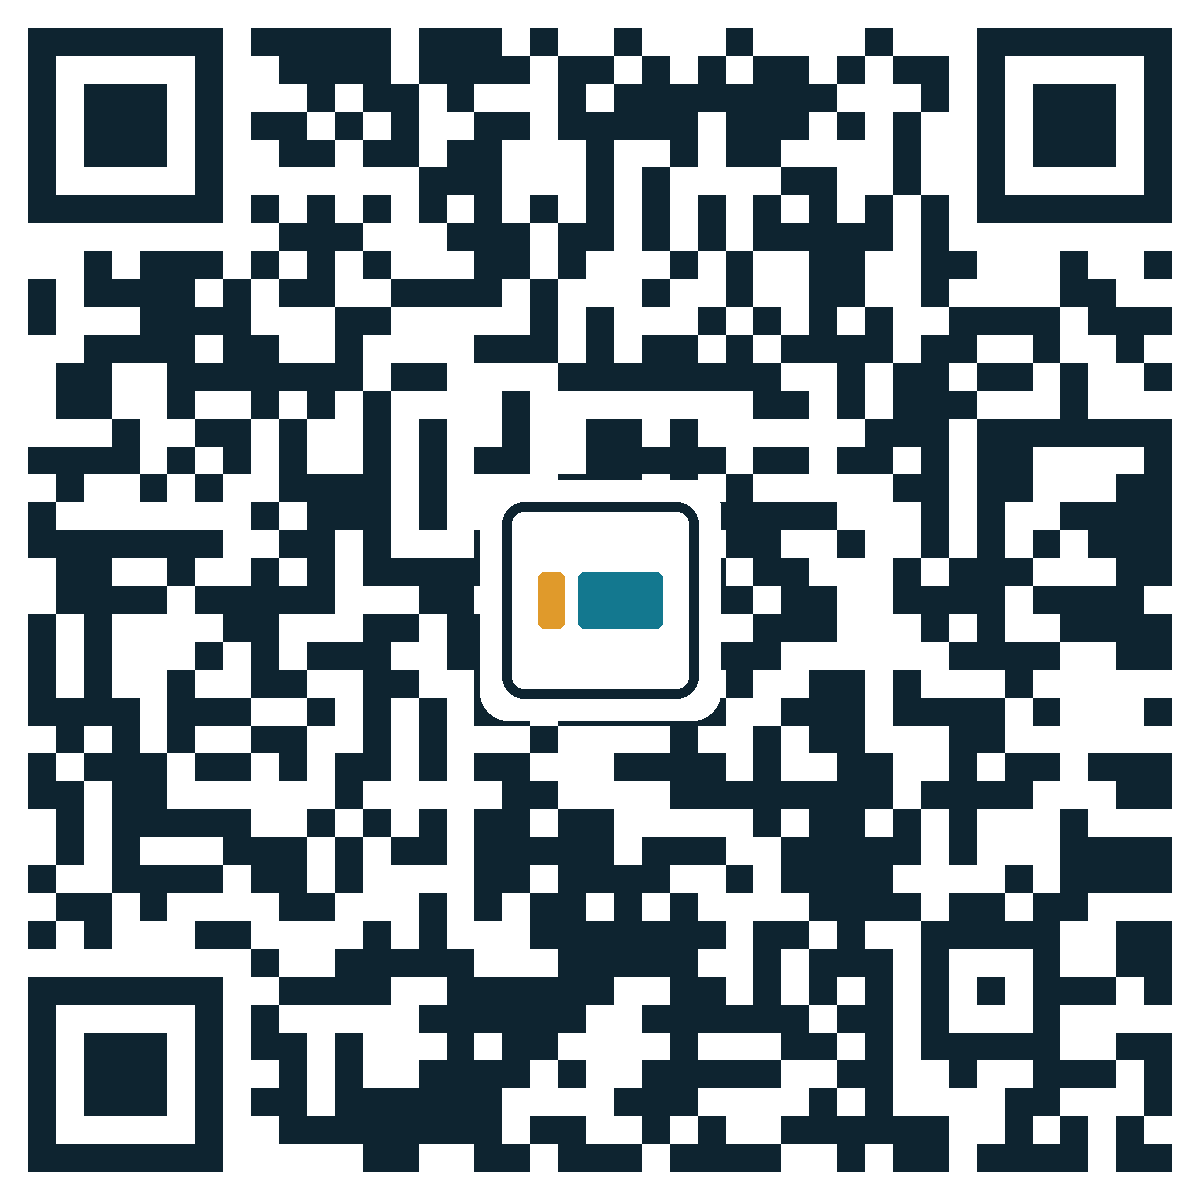
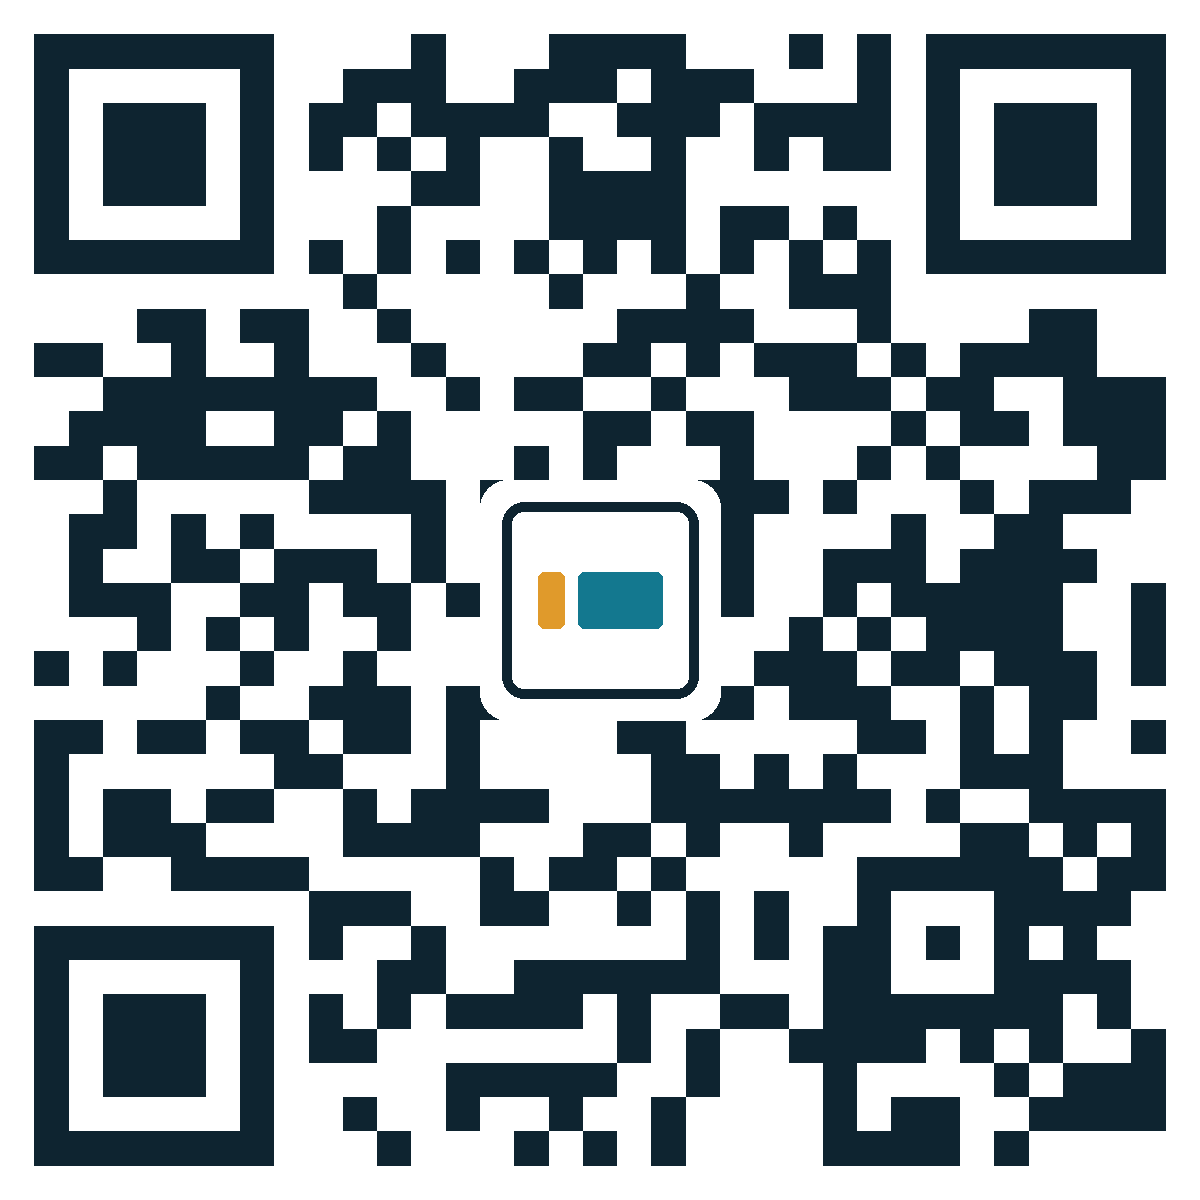
Point QR code and share link at clearsharetechnologies.com
Claude-Session: https://claude.ai/code/session_01NSgtM61PUev2CfXmwpndYs

diff --git a/index.html b/index.html
@@ -551,7 +551,7 @@ dialog pre{background:var(--surface-2);border-radius:var(--r-s);padding:12px;fon
   <p class="muted" style="margin-top:6px;max-width:40rem">Scan the code or copy the link.</p>
   <div class="card" style="margin-top:16px">
     <div class="qr-wrap">
-      <div class="qr" id="qrbox" aria-label="QR code that opens ClearShare"><svg viewBox="0 0 43 43" shape-rendering="crispEdges" role="img" aria-label="QR code linking to ClearShare"><rect width="43" height="43" fill="#fff"/><path d="M1 1h1v1h-1zM2 1h1v1h-1zM3 1h1v1h-1zM4 1h1v1h-1zM5 1h1v1h-1zM6 1h1v1h-1zM7 1h1v1h-1zM9 1h1v1h-1zM10 1h1v1h-1zM11 1h1v1h-1zM12 1h1v1h-1zM13 1h1v1h-1zM15 1h1v1h-1zM16 1h1v1h-1zM17 1h1v1h-1zM19 1h1v1h-1zM22 1h1v1h-1zM26 1h1v1h-1zM31 1h1v1h-1zM35 1h1v1h-1zM36 1h1v1h-1zM37 1h1v1h-1zM38 1h1v1h-1zM39 1h1v1h-1zM40 1h1v1h-1zM41 1h1v1h-1zM1 2h1v1h-1zM7 2h1v1h-1zM10 2h1v1h-1zM11 2h1v1h-1zM12 2h1v1h-1zM13 2h1v1h-1zM15 2h1v1h-1zM16 2h1v1h-1zM17 2h1v1h-1zM18 2h1v1h-1zM20 2h1v1h-1zM21 2h1v1h-1zM23 2h1v1h-1zM25 2h1v1h-1zM27 2h1v1h-1zM28 2h1v1h-1zM30 2h1v1h-1zM32 2h1v1h-1zM33 2h1v1h-1zM35 2h1v1h-1zM41 2h1v1h-1zM1 3h1v1h-1zM3 3h1v1h-1zM4 3h1v1h-1zM5 3h1v1h-1zM7 3h1v1h-1zM11 3h1v1h-1zM13 3h1v1h-1zM14 3h1v1h-1zM16 3h1v1h-1zM20 3h1v1h-1zM22 3h1v1h-1zM23 3h1v1h-1zM24 3h1v1h-1zM25 3h1v1h-1zM26 3h1v1h-1zM27 3h1v1h-1zM28 3h1v1h-1zM29 3h1v1h-1zM33 3h1v1h-1zM35 3h1v1h-1zM37 3h1v1h-1zM38 3h1v1h-1zM39 3h1v1h-1zM41 3h1v1h-1zM1 4h1v1h-1zM3 4h1v1h-1zM4 4h1v1h-1zM5 4h1v1h-1zM7 4h1v1h-1zM9 4h1v1h-1zM10 4h1v1h-1zM12 4h1v1h-1zM14 4h1v1h-1zM17 4h1v1h-1zM18 4h1v1h-1zM20 4h1v1h-1zM21 4h1v1h-1zM22 4h1v1h-1zM23 4h1v1h-1zM24 4h1v1h-1zM26 4h1v1h-1zM27 4h1v1h-1zM28 4h1v1h-1zM30 4h1v1h-1zM32 4h1v1h-1zM35 4h1v1h-1zM37 4h1v1h-1zM38 4h1v1h-1zM39 4h1v1h-1zM41 4h1v1h-1zM1 5h1v1h-1zM3 5h1v1h-1zM4 5h1v1h-1zM5 5h1v1h-1zM7 5h1v1h-1zM10 5h1v1h-1zM11 5h1v1h-1zM13 5h1v1h-1zM14 5h1v1h-1zM16 5h1v1h-1zM17 5h1v1h-1zM21 5h1v1h-1zM24 5h1v1h-1zM26 5h1v1h-1zM27 5h1v1h-1zM32 5h1v1h-1zM35 5h1v1h-1zM37 5h1v1h-1zM38 5h1v1h-1zM39 5h1v1h-1zM41 5h1v1h-1zM1 6h1v1h-1zM7 6h1v1h-1zM15 6h1v1h-1zM16 6h1v1h-1zM17 6h1v1h-1zM21 6h1v1h-1zM23 6h1v1h-1zM28 6h1v1h-1zM29 6h1v1h-1zM32 6h1v1h-1zM35 6h1v1h-1zM41 6h1v1h-1zM1 7h1v1h-1zM2 7h1v1h-1zM3 7h1v1h-1zM4 7h1v1h-1zM5 7h1v1h-1zM6 7h1v1h-1zM7 7h1v1h-1zM9 7h1v1h-1zM11 7h1v1h-1zM13 7h1v1h-1zM15 7h1v1h-1zM17 7h1v1h-1zM19 7h1v1h-1zM21 7h1v1h-1zM23 7h1v1h-1zM25 7h1v1h-1zM27 7h1v1h-1zM29 7h1v1h-1zM31 7h1v1h-1zM33 7h1v1h-1zM35 7h1v1h-1zM36 7h1v1h-1zM37 7h1v1h-1zM38 7h1v1h-1zM39 7h1v1h-1zM40 7h1v1h-1zM41 7h1v1h-1zM10 8h1v1h-1zM11 8h1v1h-1zM12 8h1v1h-1zM16 8h1v1h-1zM17 8h1v1h-1zM18 8h1v1h-1zM20 8h1v1h-1zM21 8h1v1h-1zM23 8h1v1h-1zM25 8h1v1h-1zM27 8h1v1h-1zM28 8h1v1h-1zM29 8h1v1h-1zM30 8h1v1h-1zM31 8h1v1h-1zM33 8h1v1h-1zM3 9h1v1h-1zM5 9h1v1h-1zM6 9h1v1h-1zM7 9h1v1h-1zM9 9h1v1h-1zM11 9h1v1h-1zM13 9h1v1h-1zM17 9h1v1h-1zM18 9h1v1h-1zM20 9h1v1h-1zM24 9h1v1h-1zM26 9h1v1h-1zM29 9h1v1h-1zM30 9h1v1h-1zM33 9h1v1h-1zM34 9h1v1h-1zM38 9h1v1h-1zM41 9h1v1h-1zM1 10h1v1h-1zM3 10h1v1h-1zM4 10h1v1h-1zM5 10h1v1h-1zM6 10h1v1h-1zM8 10h1v1h-1zM10 10h1v1h-1zM11 10h1v1h-1zM14 10h1v1h-1zM15 10h1v1h-1zM16 10h1v1h-1zM17 10h1v1h-1zM19 10h1v1h-1zM23 10h1v1h-1zM26 10h1v1h-1zM29 10h1v1h-1zM30 10h1v1h-1zM33 10h1v1h-1zM38 10h1v1h-1zM39 10h1v1h-1zM1 11h1v1h-1zM5 11h1v1h-1zM6 11h1v1h-1zM7 11h1v1h-1zM8 11h1v1h-1zM12 11h1v1h-1zM13 11h1v1h-1zM19 11h1v1h-1zM21 11h1v1h-1zM25 11h1v1h-1zM27 11h1v1h-1zM29 11h1v1h-1zM31 11h1v1h-1zM34 11h1v1h-1zM35 11h1v1h-1zM36 11h1v1h-1zM37 11h1v1h-1zM39 11h1v1h-1zM40 11h1v1h-1zM41 11h1v1h-1zM3 12h1v1h-1zM4 12h1v1h-1zM5 12h1v1h-1zM6 12h1v1h-1zM8 12h1v1h-1zM9 12h1v1h-1zM12 12h1v1h-1zM17 12h1v1h-1zM18 12h1v1h-1zM19 12h1v1h-1zM21 12h1v1h-1zM23 12h1v1h-1zM24 12h1v1h-1zM26 12h1v1h-1zM28 12h1v1h-1zM29 12h1v1h-1zM30 12h1v1h-1zM31 12h1v1h-1zM33 12h1v1h-1zM34 12h1v1h-1zM37 12h1v1h-1zM40 12h1v1h-1zM2 13h1v1h-1zM3 13h1v1h-1zM6 13h1v1h-1zM7 13h1v1h-1zM8 13h1v1h-1zM9 13h1v1h-1zM10 13h1v1h-1zM11 13h1v1h-1zM12 13h1v1h-1zM14 13h1v1h-1zM15 13h1v1h-1zM20 13h1v1h-1zM21 13h1v1h-1zM22 13h1v1h-1zM23 13h1v1h-1zM24 13h1v1h-1zM25 13h1v1h-1zM26 13h1v1h-1zM27 13h1v1h-1zM30 13h1v1h-1zM32 13h1v1h-1zM33 13h1v1h-1zM35 13h1v1h-1zM36 13h1v1h-1zM38 13h1v1h-1zM41 13h1v1h-1zM2 14h1v1h-1zM3 14h1v1h-1zM6 14h1v1h-1zM9 14h1v1h-1zM11 14h1v1h-1zM13 14h1v1h-1zM18 14h1v1h-1zM27 14h1v1h-1zM28 14h1v1h-1zM30 14h1v1h-1zM32 14h1v1h-1zM33 14h1v1h-1zM34 14h1v1h-1zM38 14h1v1h-1zM4 15h1v1h-1zM7 15h1v1h-1zM8 15h1v1h-1zM10 15h1v1h-1zM13 15h1v1h-1zM15 15h1v1h-1zM18 15h1v1h-1zM21 15h1v1h-1zM22 15h1v1h-1zM24 15h1v1h-1zM31 15h1v1h-1zM32 15h1v1h-1zM33 15h1v1h-1zM35 15h1v1h-1zM36 15h1v1h-1zM37 15h1v1h-1zM38 15h1v1h-1zM39 15h1v1h-1zM40 15h1v1h-1zM41 15h1v1h-1zM1 16h1v1h-1zM2 16h1v1h-1zM3 16h1v1h-1zM4 16h1v1h-1zM6 16h1v1h-1zM8 16h1v1h-1zM10 16h1v1h-1zM13 16h1v1h-1zM15 16h1v1h-1zM17 16h1v1h-1zM18 16h1v1h-1zM21 16h1v1h-1zM22 16h1v1h-1zM23 16h1v1h-1zM24 16h1v1h-1zM25 16h1v1h-1zM27 16h1v1h-1zM28 16h1v1h-1zM30 16h1v1h-1zM31 16h1v1h-1zM33 16h1v1h-1zM35 16h1v1h-1zM36 16h1v1h-1zM41 16h1v1h-1zM2 17h1v1h-1zM5 17h1v1h-1zM7 17h1v1h-1zM10 17h1v1h-1zM11 17h1v1h-1zM12 17h1v1h-1zM13 17h1v1h-1zM15 17h1v1h-1zM20 17h1v1h-1zM21 17h1v1h-1zM22 17h1v1h-1zM24 17h1v1h-1zM26 17h1v1h-1zM32 17h1v1h-1zM33 17h1v1h-1zM35 17h1v1h-1zM36 17h1v1h-1zM40 17h1v1h-1zM41 17h1v1h-1zM1 18h1v1h-1zM9 18h1v1h-1zM11 18h1v1h-1zM12 18h1v1h-1zM13 18h1v1h-1zM15 18h1v1h-1zM19 18h1v1h-1zM20 18h1v1h-1zM22 18h1v1h-1zM24 18h1v1h-1zM25 18h1v1h-1zM26 18h1v1h-1zM27 18h1v1h-1zM28 18h1v1h-1zM29 18h1v1h-1zM33 18h1v1h-1zM35 18h1v1h-1zM38 18h1v1h-1zM39 18h1v1h-1zM40 18h1v1h-1zM41 18h1v1h-1zM1 19h1v1h-1zM2 19h1v1h-1zM3 19h1v1h-1zM4 19h1v1h-1zM5 19h1v1h-1zM6 19h1v1h-1zM7 19h1v1h-1zM10 19h1v1h-1zM11 19h1v1h-1zM13 19h1v1h-1zM17 19h1v1h-1zM21 19h1v1h-1zM22 19h1v1h-1zM26 19h1v1h-1zM27 19h1v1h-1zM30 19h1v1h-1zM33 19h1v1h-1zM35 19h1v1h-1zM37 19h1v1h-1zM39 19h1v1h-1zM40 19h1v1h-1zM41 19h1v1h-1zM2 20h1v1h-1zM3 20h1v1h-1zM6 20h1v1h-1zM9 20h1v1h-1zM11 20h1v1h-1zM13 20h1v1h-1zM14 20h1v1h-1zM15 20h1v1h-1zM16 20h1v1h-1zM17 20h1v1h-1zM21 20h1v1h-1zM25 20h1v1h-1zM27 20h1v1h-1zM28 20h1v1h-1zM32 20h1v1h-1zM34 20h1v1h-1zM35 20h1v1h-1zM36 20h1v1h-1zM40 20h1v1h-1zM41 20h1v1h-1zM2 21h1v1h-1zM3 21h1v1h-1zM4 21h1v1h-1zM5 21h1v1h-1zM7 21h1v1h-1zM8 21h1v1h-1zM9 21h1v1h-1zM10 21h1v1h-1zM11 21h1v1h-1zM15 21h1v1h-1zM16 21h1v1h-1zM18 21h1v1h-1zM20 21h1v1h-1zM21 21h1v1h-1zM23 21h1v1h-1zM25 21h1v1h-1zM26 21h1v1h-1zM28 21h1v1h-1zM29 21h1v1h-1zM32 21h1v1h-1zM33 21h1v1h-1zM34 21h1v1h-1zM35 21h1v1h-1zM37 21h1v1h-1zM38 21h1v1h-1zM39 21h1v1h-1zM40 21h1v1h-1zM1 22h1v1h-1zM3 22h1v1h-1zM8 22h1v1h-1zM9 22h1v1h-1zM13 22h1v1h-1zM14 22h1v1h-1zM16 22h1v1h-1zM17 22h1v1h-1zM19 22h1v1h-1zM20 22h1v1h-1zM22 22h1v1h-1zM24 22h1v1h-1zM27 22h1v1h-1zM28 22h1v1h-1zM29 22h1v1h-1zM33 22h1v1h-1zM35 22h1v1h-1zM38 22h1v1h-1zM39 22h1v1h-1zM40 22h1v1h-1zM41 22h1v1h-1zM1 23h1v1h-1zM3 23h1v1h-1zM7 23h1v1h-1zM9 23h1v1h-1zM11 23h1v1h-1zM12 23h1v1h-1zM13 23h1v1h-1zM16 23h1v1h-1zM17 23h1v1h-1zM19 23h1v1h-1zM23 23h1v1h-1zM24 23h1v1h-1zM25 23h1v1h-1zM26 23h1v1h-1zM27 23h1v1h-1zM34 23h1v1h-1zM35 23h1v1h-1zM36 23h1v1h-1zM37 23h1v1h-1zM40 23h1v1h-1zM41 23h1v1h-1zM1 24h1v1h-1zM3 24h1v1h-1zM6 24h1v1h-1zM9 24h1v1h-1zM10 24h1v1h-1zM13 24h1v1h-1zM14 24h1v1h-1zM17 24h1v1h-1zM18 24h1v1h-1zM19 24h1v1h-1zM20 24h1v1h-1zM24 24h1v1h-1zM26 24h1v1h-1zM29 24h1v1h-1zM30 24h1v1h-1zM32 24h1v1h-1zM36 24h1v1h-1zM1 25h1v1h-1zM2 25h1v1h-1zM3 25h1v1h-1zM4 25h1v1h-1zM6 25h1v1h-1zM7 25h1v1h-1zM8 25h1v1h-1zM11 25h1v1h-1zM13 25h1v1h-1zM15 25h1v1h-1zM17 25h1v1h-1zM18 25h1v1h-1zM20 25h1v1h-1zM21 25h1v1h-1zM22 25h1v1h-1zM23 25h1v1h-1zM24 25h1v1h-1zM25 25h1v1h-1zM28 25h1v1h-1zM29 25h1v1h-1zM30 25h1v1h-1zM32 25h1v1h-1zM33 25h1v1h-1zM34 25h1v1h-1zM35 25h1v1h-1zM37 25h1v1h-1zM41 25h1v1h-1zM2 26h1v1h-1zM4 26h1v1h-1zM6 26h1v1h-1zM9 26h1v1h-1zM10 26h1v1h-1zM13 26h1v1h-1zM15 26h1v1h-1zM19 26h1v1h-1zM24 26h1v1h-1zM27 26h1v1h-1zM29 26h1v1h-1zM30 26h1v1h-1zM34 26h1v1h-1zM35 26h1v1h-1zM1 27h1v1h-1zM3 27h1v1h-1zM4 27h1v1h-1zM5 27h1v1h-1zM7 27h1v1h-1zM8 27h1v1h-1zM10 27h1v1h-1zM12 27h1v1h-1zM13 27h1v1h-1zM15 27h1v1h-1zM17 27h1v1h-1zM18 27h1v1h-1zM22 27h1v1h-1zM23 27h1v1h-1zM24 27h1v1h-1zM25 27h1v1h-1zM27 27h1v1h-1zM30 27h1v1h-1zM31 27h1v1h-1zM34 27h1v1h-1zM36 27h1v1h-1zM37 27h1v1h-1zM39 27h1v1h-1zM40 27h1v1h-1zM41 27h1v1h-1zM1 28h1v1h-1zM2 28h1v1h-1zM4 28h1v1h-1zM5 28h1v1h-1zM12 28h1v1h-1zM18 28h1v1h-1zM19 28h1v1h-1zM24 28h1v1h-1zM25 28h1v1h-1zM26 28h1v1h-1zM27 28h1v1h-1zM28 28h1v1h-1zM29 28h1v1h-1zM30 28h1v1h-1zM31 28h1v1h-1zM33 28h1v1h-1zM34 28h1v1h-1zM35 28h1v1h-1zM36 28h1v1h-1zM40 28h1v1h-1zM41 28h1v1h-1zM2 29h1v1h-1zM4 29h1v1h-1zM5 29h1v1h-1zM6 29h1v1h-1zM7 29h1v1h-1zM8 29h1v1h-1zM11 29h1v1h-1zM13 29h1v1h-1zM15 29h1v1h-1zM17 29h1v1h-1zM18 29h1v1h-1zM20 29h1v1h-1zM21 29h1v1h-1zM27 29h1v1h-1zM29 29h1v1h-1zM30 29h1v1h-1zM32 29h1v1h-1zM34 29h1v1h-1zM38 29h1v1h-1zM2 30h1v1h-1zM4 30h1v1h-1zM8 30h1v1h-1zM9 30h1v1h-1zM10 30h1v1h-1zM12 30h1v1h-1zM14 30h1v1h-1zM15 30h1v1h-1zM17 30h1v1h-1zM18 30h1v1h-1zM19 30h1v1h-1zM20 30h1v1h-1zM21 30h1v1h-1zM23 30h1v1h-1zM24 30h1v1h-1zM25 30h1v1h-1zM28 30h1v1h-1zM29 30h1v1h-1zM30 30h1v1h-1zM31 30h1v1h-1zM32 30h1v1h-1zM34 30h1v1h-1zM38 30h1v1h-1zM39 30h1v1h-1zM40 30h1v1h-1zM41 30h1v1h-1zM1 31h1v1h-1zM4 31h1v1h-1zM5 31h1v1h-1zM6 31h1v1h-1zM7 31h1v1h-1zM9 31h1v1h-1zM10 31h1v1h-1zM12 31h1v1h-1zM17 31h1v1h-1zM18 31h1v1h-1zM20 31h1v1h-1zM21 31h1v1h-1zM22 31h1v1h-1zM23 31h1v1h-1zM26 31h1v1h-1zM28 31h1v1h-1zM29 31h1v1h-1zM30 31h1v1h-1zM31 31h1v1h-1zM36 31h1v1h-1zM38 31h1v1h-1zM39 31h1v1h-1zM40 31h1v1h-1zM41 31h1v1h-1zM2 32h1v1h-1zM3 32h1v1h-1zM5 32h1v1h-1zM10 32h1v1h-1zM11 32h1v1h-1zM15 32h1v1h-1zM17 32h1v1h-1zM19 32h1v1h-1zM20 32h1v1h-1zM22 32h1v1h-1zM24 32h1v1h-1zM29 32h1v1h-1zM30 32h1v1h-1zM31 32h1v1h-1zM32 32h1v1h-1zM34 32h1v1h-1zM35 32h1v1h-1zM37 32h1v1h-1zM38 32h1v1h-1zM1 33h1v1h-1zM3 33h1v1h-1zM7 33h1v1h-1zM8 33h1v1h-1zM13 33h1v1h-1zM15 33h1v1h-1zM19 33h1v1h-1zM20 33h1v1h-1zM21 33h1v1h-1zM22 33h1v1h-1zM23 33h1v1h-1zM24 33h1v1h-1zM25 33h1v1h-1zM27 33h1v1h-1zM28 33h1v1h-1zM30 33h1v1h-1zM33 33h1v1h-1zM34 33h1v1h-1zM35 33h1v1h-1zM36 33h1v1h-1zM37 33h1v1h-1zM40 33h1v1h-1zM41 33h1v1h-1zM9 34h1v1h-1zM12 34h1v1h-1zM13 34h1v1h-1zM14 34h1v1h-1zM15 34h1v1h-1zM16 34h1v1h-1zM20 34h1v1h-1zM21 34h1v1h-1zM22 34h1v1h-1zM23 34h1v1h-1zM24 34h1v1h-1zM27 34h1v1h-1zM29 34h1v1h-1zM30 34h1v1h-1zM31 34h1v1h-1zM33 34h1v1h-1zM37 34h1v1h-1zM40 34h1v1h-1zM41 34h1v1h-1zM1 35h1v1h-1zM2 35h1v1h-1zM3 35h1v1h-1zM4 35h1v1h-1zM5 35h1v1h-1zM6 35h1v1h-1zM7 35h1v1h-1zM10 35h1v1h-1zM11 35h1v1h-1zM12 35h1v1h-1zM13 35h1v1h-1zM16 35h1v1h-1zM17 35h1v1h-1zM18 35h1v1h-1zM19 35h1v1h-1zM20 35h1v1h-1zM21 35h1v1h-1zM24 35h1v1h-1zM25 35h1v1h-1zM27 35h1v1h-1zM29 35h1v1h-1zM31 35h1v1h-1zM33 35h1v1h-1zM35 35h1v1h-1zM37 35h1v1h-1zM38 35h1v1h-1zM39 35h1v1h-1zM41 35h1v1h-1zM1 36h1v1h-1zM7 36h1v1h-1zM9 36h1v1h-1zM15 36h1v1h-1zM16 36h1v1h-1zM17 36h1v1h-1zM18 36h1v1h-1zM19 36h1v1h-1zM20 36h1v1h-1zM23 36h1v1h-1zM24 36h1v1h-1zM25 36h1v1h-1zM26 36h1v1h-1zM27 36h1v1h-1zM28 36h1v1h-1zM30 36h1v1h-1zM31 36h1v1h-1zM33 36h1v1h-1zM37 36h1v1h-1zM1 37h1v1h-1zM3 37h1v1h-1zM4 37h1v1h-1zM5 37h1v1h-1zM7 37h1v1h-1zM9 37h1v1h-1zM10 37h1v1h-1zM12 37h1v1h-1zM16 37h1v1h-1zM18 37h1v1h-1zM19 37h1v1h-1zM24 37h1v1h-1zM28 37h1v1h-1zM29 37h1v1h-1zM31 37h1v1h-1zM33 37h1v1h-1zM34 37h1v1h-1zM35 37h1v1h-1zM36 37h1v1h-1zM37 37h1v1h-1zM40 37h1v1h-1zM41 37h1v1h-1zM1 38h1v1h-1zM3 38h1v1h-1zM4 38h1v1h-1zM5 38h1v1h-1zM7 38h1v1h-1zM10 38h1v1h-1zM12 38h1v1h-1zM15 38h1v1h-1zM16 38h1v1h-1zM17 38h1v1h-1zM18 38h1v1h-1zM20 38h1v1h-1zM23 38h1v1h-1zM24 38h1v1h-1zM25 38h1v1h-1zM26 38h1v1h-1zM27 38h1v1h-1zM30 38h1v1h-1zM31 38h1v1h-1zM34 38h1v1h-1zM37 38h1v1h-1zM38 38h1v1h-1zM39 38h1v1h-1zM41 38h1v1h-1zM1 39h1v1h-1zM3 39h1v1h-1zM4 39h1v1h-1zM5 39h1v1h-1zM7 39h1v1h-1zM9 39h1v1h-1zM10 39h1v1h-1zM12 39h1v1h-1zM13 39h1v1h-1zM14 39h1v1h-1zM15 39h1v1h-1zM16 39h1v1h-1zM17 39h1v1h-1zM22 39h1v1h-1zM23 39h1v1h-1zM24 39h1v1h-1zM29 39h1v1h-1zM31 39h1v1h-1zM36 39h1v1h-1zM37 39h1v1h-1zM41 39h1v1h-1zM1 40h1v1h-1zM7 40h1v1h-1zM10 40h1v1h-1zM11 40h1v1h-1zM12 40h1v1h-1zM13 40h1v1h-1zM14 40h1v1h-1zM15 40h1v1h-1zM16 40h1v1h-1zM17 40h1v1h-1zM19 40h1v1h-1zM20 40h1v1h-1zM23 40h1v1h-1zM25 40h1v1h-1zM28 40h1v1h-1zM29 40h1v1h-1zM30 40h1v1h-1zM31 40h1v1h-1zM32 40h1v1h-1zM33 40h1v1h-1zM36 40h1v1h-1zM38 40h1v1h-1zM40 40h1v1h-1zM1 41h1v1h-1zM2 41h1v1h-1zM3 41h1v1h-1zM4 41h1v1h-1zM5 41h1v1h-1zM6 41h1v1h-1zM7 41h1v1h-1zM13 41h1v1h-1zM14 41h1v1h-1zM17 41h1v1h-1zM18 41h1v1h-1zM20 41h1v1h-1zM21 41h1v1h-1zM22 41h1v1h-1zM24 41h1v1h-1zM25 41h1v1h-1zM26 41h1v1h-1zM27 41h1v1h-1zM30 41h1v1h-1zM32 41h1v1h-1zM33 41h1v1h-1zM35 41h1v1h-1zM36 41h1v1h-1zM37 41h1v1h-1zM38 41h1v1h-1zM40 41h1v1h-1zM41 41h1v1h-1z" fill="#0E2430"/></svg></div>
+      <div class="qr" id="qrbox" aria-label="QR code that opens ClearShare"><svg viewBox="0 0 35 35" shape-rendering="crispEdges" role="img" aria-label="QR code linking to clearsharetechnologies.com"><rect width="35" height="35" fill="#fff"/><path d="M1 1h1v1h-1zM2 1h1v1h-1zM3 1h1v1h-1zM4 1h1v1h-1zM5 1h1v1h-1zM6 1h1v1h-1zM7 1h1v1h-1zM12 1h1v1h-1zM16 1h1v1h-1zM17 1h1v1h-1zM18 1h1v1h-1zM19 1h1v1h-1zM23 1h1v1h-1zM25 1h1v1h-1zM27 1h1v1h-1zM28 1h1v1h-1zM29 1h1v1h-1zM30 1h1v1h-1zM31 1h1v1h-1zM32 1h1v1h-1zM33 1h1v1h-1zM1 2h1v1h-1zM7 2h1v1h-1zM10 2h1v1h-1zM11 2h1v1h-1zM12 2h1v1h-1zM15 2h1v1h-1zM16 2h1v1h-1zM17 2h1v1h-1zM19 2h1v1h-1zM20 2h1v1h-1zM21 2h1v1h-1zM25 2h1v1h-1zM27 2h1v1h-1zM33 2h1v1h-1zM1 3h1v1h-1zM3 3h1v1h-1zM4 3h1v1h-1zM5 3h1v1h-1zM7 3h1v1h-1zM9 3h1v1h-1zM10 3h1v1h-1zM12 3h1v1h-1zM13 3h1v1h-1zM14 3h1v1h-1zM15 3h1v1h-1zM18 3h1v1h-1zM19 3h1v1h-1zM20 3h1v1h-1zM22 3h1v1h-1zM23 3h1v1h-1zM24 3h1v1h-1zM25 3h1v1h-1zM27 3h1v1h-1zM29 3h1v1h-1zM30 3h1v1h-1zM31 3h1v1h-1zM33 3h1v1h-1zM1 4h1v1h-1zM3 4h1v1h-1zM4 4h1v1h-1zM5 4h1v1h-1zM7 4h1v1h-1zM9 4h1v1h-1zM11 4h1v1h-1zM13 4h1v1h-1zM16 4h1v1h-1zM19 4h1v1h-1zM22 4h1v1h-1zM24 4h1v1h-1zM25 4h1v1h-1zM27 4h1v1h-1zM29 4h1v1h-1zM30 4h1v1h-1zM31 4h1v1h-1zM33 4h1v1h-1zM1 5h1v1h-1zM3 5h1v1h-1zM4 5h1v1h-1zM5 5h1v1h-1zM7 5h1v1h-1zM12 5h1v1h-1zM13 5h1v1h-1zM16 5h1v1h-1zM17 5h1v1h-1zM18 5h1v1h-1zM19 5h1v1h-1zM27 5h1v1h-1zM29 5h1v1h-1zM30 5h1v1h-1zM31 5h1v1h-1zM33 5h1v1h-1zM1 6h1v1h-1zM7 6h1v1h-1zM11 6h1v1h-1zM16 6h1v1h-1zM17 6h1v1h-1zM18 6h1v1h-1zM19 6h1v1h-1zM21 6h1v1h-1zM22 6h1v1h-1zM24 6h1v1h-1zM27 6h1v1h-1zM33 6h1v1h-1zM1 7h1v1h-1zM2 7h1v1h-1zM3 7h1v1h-1zM4 7h1v1h-1zM5 7h1v1h-1zM6 7h1v1h-1zM7 7h1v1h-1zM9 7h1v1h-1zM11 7h1v1h-1zM13 7h1v1h-1zM15 7h1v1h-1zM17 7h1v1h-1zM19 7h1v1h-1zM21 7h1v1h-1zM23 7h1v1h-1zM25 7h1v1h-1zM27 7h1v1h-1zM28 7h1v1h-1zM29 7h1v1h-1zM30 7h1v1h-1zM31 7h1v1h-1zM32 7h1v1h-1zM33 7h1v1h-1zM10 8h1v1h-1zM16 8h1v1h-1zM20 8h1v1h-1zM23 8h1v1h-1zM24 8h1v1h-1zM25 8h1v1h-1zM4 9h1v1h-1zM5 9h1v1h-1zM7 9h1v1h-1zM8 9h1v1h-1zM11 9h1v1h-1zM18 9h1v1h-1zM19 9h1v1h-1zM20 9h1v1h-1zM21 9h1v1h-1zM25 9h1v1h-1zM30 9h1v1h-1zM31 9h1v1h-1zM1 10h1v1h-1zM2 10h1v1h-1zM5 10h1v1h-1zM8 10h1v1h-1zM12 10h1v1h-1zM17 10h1v1h-1zM18 10h1v1h-1zM20 10h1v1h-1zM22 10h1v1h-1zM23 10h1v1h-1zM24 10h1v1h-1zM26 10h1v1h-1zM28 10h1v1h-1zM29 10h1v1h-1zM30 10h1v1h-1zM31 10h1v1h-1zM3 11h1v1h-1zM4 11h1v1h-1zM5 11h1v1h-1zM6 11h1v1h-1zM7 11h1v1h-1zM8 11h1v1h-1zM9 11h1v1h-1zM10 11h1v1h-1zM13 11h1v1h-1zM15 11h1v1h-1zM16 11h1v1h-1zM19 11h1v1h-1zM23 11h1v1h-1zM24 11h1v1h-1zM25 11h1v1h-1zM27 11h1v1h-1zM28 11h1v1h-1zM31 11h1v1h-1zM32 11h1v1h-1zM33 11h1v1h-1zM2 12h1v1h-1zM3 12h1v1h-1zM4 12h1v1h-1zM5 12h1v1h-1zM8 12h1v1h-1zM9 12h1v1h-1zM11 12h1v1h-1zM17 12h1v1h-1zM18 12h1v1h-1zM20 12h1v1h-1zM21 12h1v1h-1zM26 12h1v1h-1zM28 12h1v1h-1zM29 12h1v1h-1zM31 12h1v1h-1zM32 12h1v1h-1zM33 12h1v1h-1zM1 13h1v1h-1zM2 13h1v1h-1zM4 13h1v1h-1zM5 13h1v1h-1zM6 13h1v1h-1zM7 13h1v1h-1zM8 13h1v1h-1zM10 13h1v1h-1zM11 13h1v1h-1zM15 13h1v1h-1zM17 13h1v1h-1zM21 13h1v1h-1zM25 13h1v1h-1zM27 13h1v1h-1zM32 13h1v1h-1zM33 13h1v1h-1zM3 14h1v1h-1zM9 14h1v1h-1zM10 14h1v1h-1zM11 14h1v1h-1zM12 14h1v1h-1zM14 14h1v1h-1zM17 14h1v1h-1zM20 14h1v1h-1zM21 14h1v1h-1zM22 14h1v1h-1zM24 14h1v1h-1zM28 14h1v1h-1zM30 14h1v1h-1zM31 14h1v1h-1zM32 14h1v1h-1zM2 15h1v1h-1zM3 15h1v1h-1zM5 15h1v1h-1zM7 15h1v1h-1zM12 15h1v1h-1zM14 15h1v1h-1zM21 15h1v1h-1zM26 15h1v1h-1zM29 15h1v1h-1zM30 15h1v1h-1zM2 16h1v1h-1zM5 16h1v1h-1zM6 16h1v1h-1zM8 16h1v1h-1zM9 16h1v1h-1zM10 16h1v1h-1zM12 16h1v1h-1zM14 16h1v1h-1zM15 16h1v1h-1zM16 16h1v1h-1zM17 16h1v1h-1zM19 16h1v1h-1zM20 16h1v1h-1zM21 16h1v1h-1zM24 16h1v1h-1zM25 16h1v1h-1zM26 16h1v1h-1zM28 16h1v1h-1zM29 16h1v1h-1zM30 16h1v1h-1zM31 16h1v1h-1zM2 17h1v1h-1zM3 17h1v1h-1zM4 17h1v1h-1zM7 17h1v1h-1zM8 17h1v1h-1zM10 17h1v1h-1zM11 17h1v1h-1zM13 17h1v1h-1zM14 17h1v1h-1zM15 17h1v1h-1zM16 17h1v1h-1zM17 17h1v1h-1zM19 17h1v1h-1zM20 17h1v1h-1zM21 17h1v1h-1zM24 17h1v1h-1zM26 17h1v1h-1zM27 17h1v1h-1zM28 17h1v1h-1zM29 17h1v1h-1zM30 17h1v1h-1zM33 17h1v1h-1zM4 18h1v1h-1zM6 18h1v1h-1zM8 18h1v1h-1zM11 18h1v1h-1zM16 18h1v1h-1zM17 18h1v1h-1zM18 18h1v1h-1zM19 18h1v1h-1zM20 18h1v1h-1zM23 18h1v1h-1zM25 18h1v1h-1zM27 18h1v1h-1zM28 18h1v1h-1zM29 18h1v1h-1zM30 18h1v1h-1zM33 18h1v1h-1zM1 19h1v1h-1zM3 19h1v1h-1zM7 19h1v1h-1zM10 19h1v1h-1zM22 19h1v1h-1zM23 19h1v1h-1zM24 19h1v1h-1zM26 19h1v1h-1zM27 19h1v1h-1zM29 19h1v1h-1zM30 19h1v1h-1zM31 19h1v1h-1zM33 19h1v1h-1zM6 20h1v1h-1zM9 20h1v1h-1zM10 20h1v1h-1zM11 20h1v1h-1zM13 20h1v1h-1zM14 20h1v1h-1zM15 20h1v1h-1zM18 20h1v1h-1zM19 20h1v1h-1zM20 20h1v1h-1zM21 20h1v1h-1zM23 20h1v1h-1zM24 20h1v1h-1zM25 20h1v1h-1zM28 20h1v1h-1zM30 20h1v1h-1zM31 20h1v1h-1zM1 21h1v1h-1zM2 21h1v1h-1zM4 21h1v1h-1zM5 21h1v1h-1zM7 21h1v1h-1zM8 21h1v1h-1zM10 21h1v1h-1zM11 21h1v1h-1zM13 21h1v1h-1zM18 21h1v1h-1zM19 21h1v1h-1zM25 21h1v1h-1zM26 21h1v1h-1zM28 21h1v1h-1zM30 21h1v1h-1zM33 21h1v1h-1zM1 22h1v1h-1zM8 22h1v1h-1zM9 22h1v1h-1zM13 22h1v1h-1zM19 22h1v1h-1zM20 22h1v1h-1zM22 22h1v1h-1zM24 22h1v1h-1zM28 22h1v1h-1zM29 22h1v1h-1zM30 22h1v1h-1zM1 23h1v1h-1zM3 23h1v1h-1zM4 23h1v1h-1zM6 23h1v1h-1zM7 23h1v1h-1zM10 23h1v1h-1zM12 23h1v1h-1zM13 23h1v1h-1zM14 23h1v1h-1zM15 23h1v1h-1zM19 23h1v1h-1zM20 23h1v1h-1zM21 23h1v1h-1zM22 23h1v1h-1zM23 23h1v1h-1zM24 23h1v1h-1zM25 23h1v1h-1zM27 23h1v1h-1zM30 23h1v1h-1zM31 23h1v1h-1zM32 23h1v1h-1zM33 23h1v1h-1zM1 24h1v1h-1zM3 24h1v1h-1zM4 24h1v1h-1zM5 24h1v1h-1zM10 24h1v1h-1zM11 24h1v1h-1zM12 24h1v1h-1zM13 24h1v1h-1zM17 24h1v1h-1zM18 24h1v1h-1zM20 24h1v1h-1zM23 24h1v1h-1zM28 24h1v1h-1zM29 24h1v1h-1zM31 24h1v1h-1zM33 24h1v1h-1zM1 25h1v1h-1zM2 25h1v1h-1zM5 25h1v1h-1zM6 25h1v1h-1zM7 25h1v1h-1zM8 25h1v1h-1zM14 25h1v1h-1zM16 25h1v1h-1zM17 25h1v1h-1zM19 25h1v1h-1zM25 25h1v1h-1zM26 25h1v1h-1zM27 25h1v1h-1zM28 25h1v1h-1zM29 25h1v1h-1zM30 25h1v1h-1zM32 25h1v1h-1zM33 25h1v1h-1zM9 26h1v1h-1zM10 26h1v1h-1zM11 26h1v1h-1zM14 26h1v1h-1zM15 26h1v1h-1zM18 26h1v1h-1zM20 26h1v1h-1zM22 26h1v1h-1zM25 26h1v1h-1zM29 26h1v1h-1zM30 26h1v1h-1zM31 26h1v1h-1zM32 26h1v1h-1zM1 27h1v1h-1zM2 27h1v1h-1zM3 27h1v1h-1zM4 27h1v1h-1zM5 27h1v1h-1zM6 27h1v1h-1zM7 27h1v1h-1zM9 27h1v1h-1zM12 27h1v1h-1zM20 27h1v1h-1zM22 27h1v1h-1zM24 27h1v1h-1zM25 27h1v1h-1zM27 27h1v1h-1zM29 27h1v1h-1zM31 27h1v1h-1zM1 28h1v1h-1zM7 28h1v1h-1zM11 28h1v1h-1zM12 28h1v1h-1zM15 28h1v1h-1zM16 28h1v1h-1zM17 28h1v1h-1zM18 28h1v1h-1zM19 28h1v1h-1zM20 28h1v1h-1zM24 28h1v1h-1zM25 28h1v1h-1zM29 28h1v1h-1zM30 28h1v1h-1zM31 28h1v1h-1zM32 28h1v1h-1zM1 29h1v1h-1zM3 29h1v1h-1zM4 29h1v1h-1zM5 29h1v1h-1zM7 29h1v1h-1zM9 29h1v1h-1zM11 29h1v1h-1zM13 29h1v1h-1zM14 29h1v1h-1zM15 29h1v1h-1zM16 29h1v1h-1zM18 29h1v1h-1zM21 29h1v1h-1zM22 29h1v1h-1zM24 29h1v1h-1zM25 29h1v1h-1zM26 29h1v1h-1zM27 29h1v1h-1zM28 29h1v1h-1zM29 29h1v1h-1zM30 29h1v1h-1zM32 29h1v1h-1zM1 30h1v1h-1zM3 30h1v1h-1zM4 30h1v1h-1zM5 30h1v1h-1zM7 30h1v1h-1zM9 30h1v1h-1zM10 30h1v1h-1zM18 30h1v1h-1zM20 30h1v1h-1zM23 30h1v1h-1zM24 30h1v1h-1zM25 30h1v1h-1zM26 30h1v1h-1zM28 30h1v1h-1zM30 30h1v1h-1zM33 30h1v1h-1zM1 31h1v1h-1zM3 31h1v1h-1zM4 31h1v1h-1zM5 31h1v1h-1zM7 31h1v1h-1zM13 31h1v1h-1zM14 31h1v1h-1zM15 31h1v1h-1zM16 31h1v1h-1zM17 31h1v1h-1zM20 31h1v1h-1zM24 31h1v1h-1zM29 31h1v1h-1zM31 31h1v1h-1zM32 31h1v1h-1zM33 31h1v1h-1zM1 32h1v1h-1zM7 32h1v1h-1zM10 32h1v1h-1zM13 32h1v1h-1zM16 32h1v1h-1zM19 32h1v1h-1zM24 32h1v1h-1zM26 32h1v1h-1zM27 32h1v1h-1zM30 32h1v1h-1zM31 32h1v1h-1zM32 32h1v1h-1zM33 32h1v1h-1zM1 33h1v1h-1zM2 33h1v1h-1zM3 33h1v1h-1zM4 33h1v1h-1zM5 33h1v1h-1zM6 33h1v1h-1zM7 33h1v1h-1zM11 33h1v1h-1zM15 33h1v1h-1zM17 33h1v1h-1zM19 33h1v1h-1zM24 33h1v1h-1zM25 33h1v1h-1zM26 33h1v1h-1zM27 33h1v1h-1zM29 33h1v1h-1z" fill="#0E2430"/></svg></div>
       <div class="stack">
         <p class="eyebrow">Link</p>
         <div class="linkbox"><span id="shareurl">—</span><button class="btn sm" type="button" id="copyurl">Copy</button></div>
@@ -583,7 +583,7 @@ dialog pre{background:var(--surface-2);border-radius:var(--r-s);padding:12px;fon
 (function(){
 const $=(s,r=document)=>r.querySelector(s), $$=(s,r=document)=>[...r.querySelectorAll(s)];
 const money=n=>'$'+n.toFixed(2)+'/hr';
-const PUBLISHED_URL='https://claude.ai/artifact/EEgXUaMUiXaACxyRZPZj1D';  // filled after first publish
+const PUBLISHED_URL='https://clearsharetechnologies.com';  // filled after first publish
 
 /* ---------- routing ---------- */
 const pages=['home','join','employers','share'];
